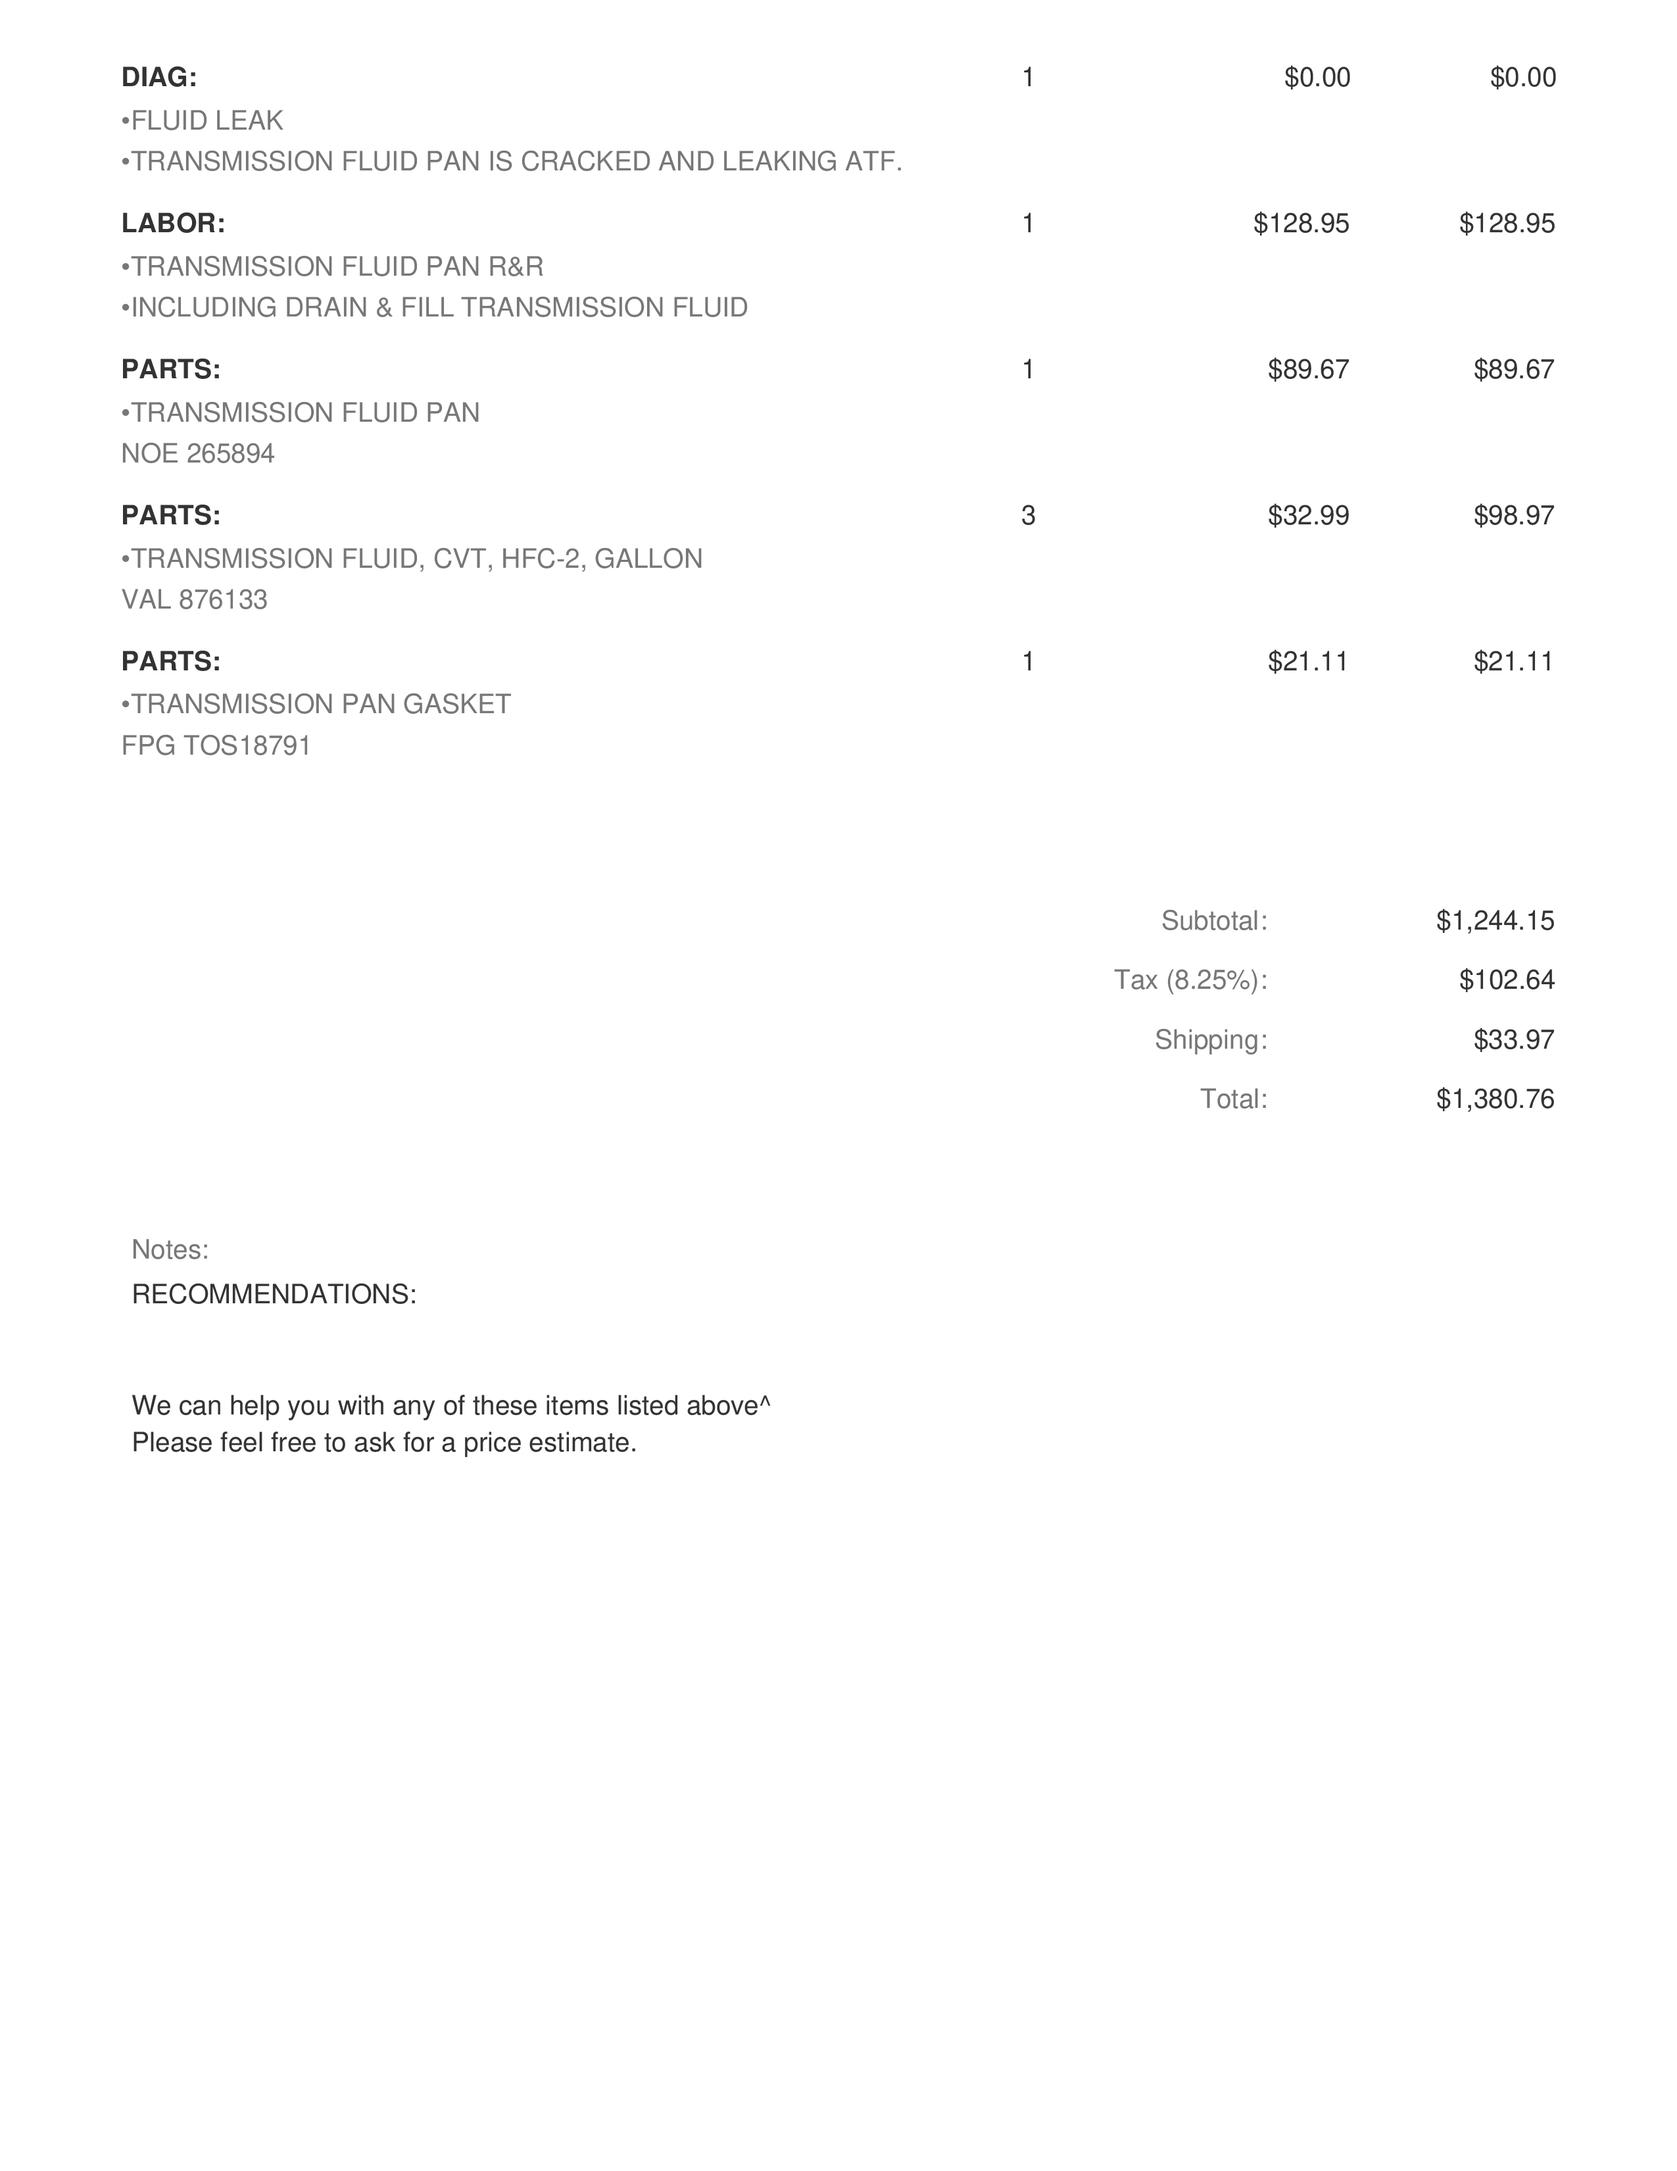
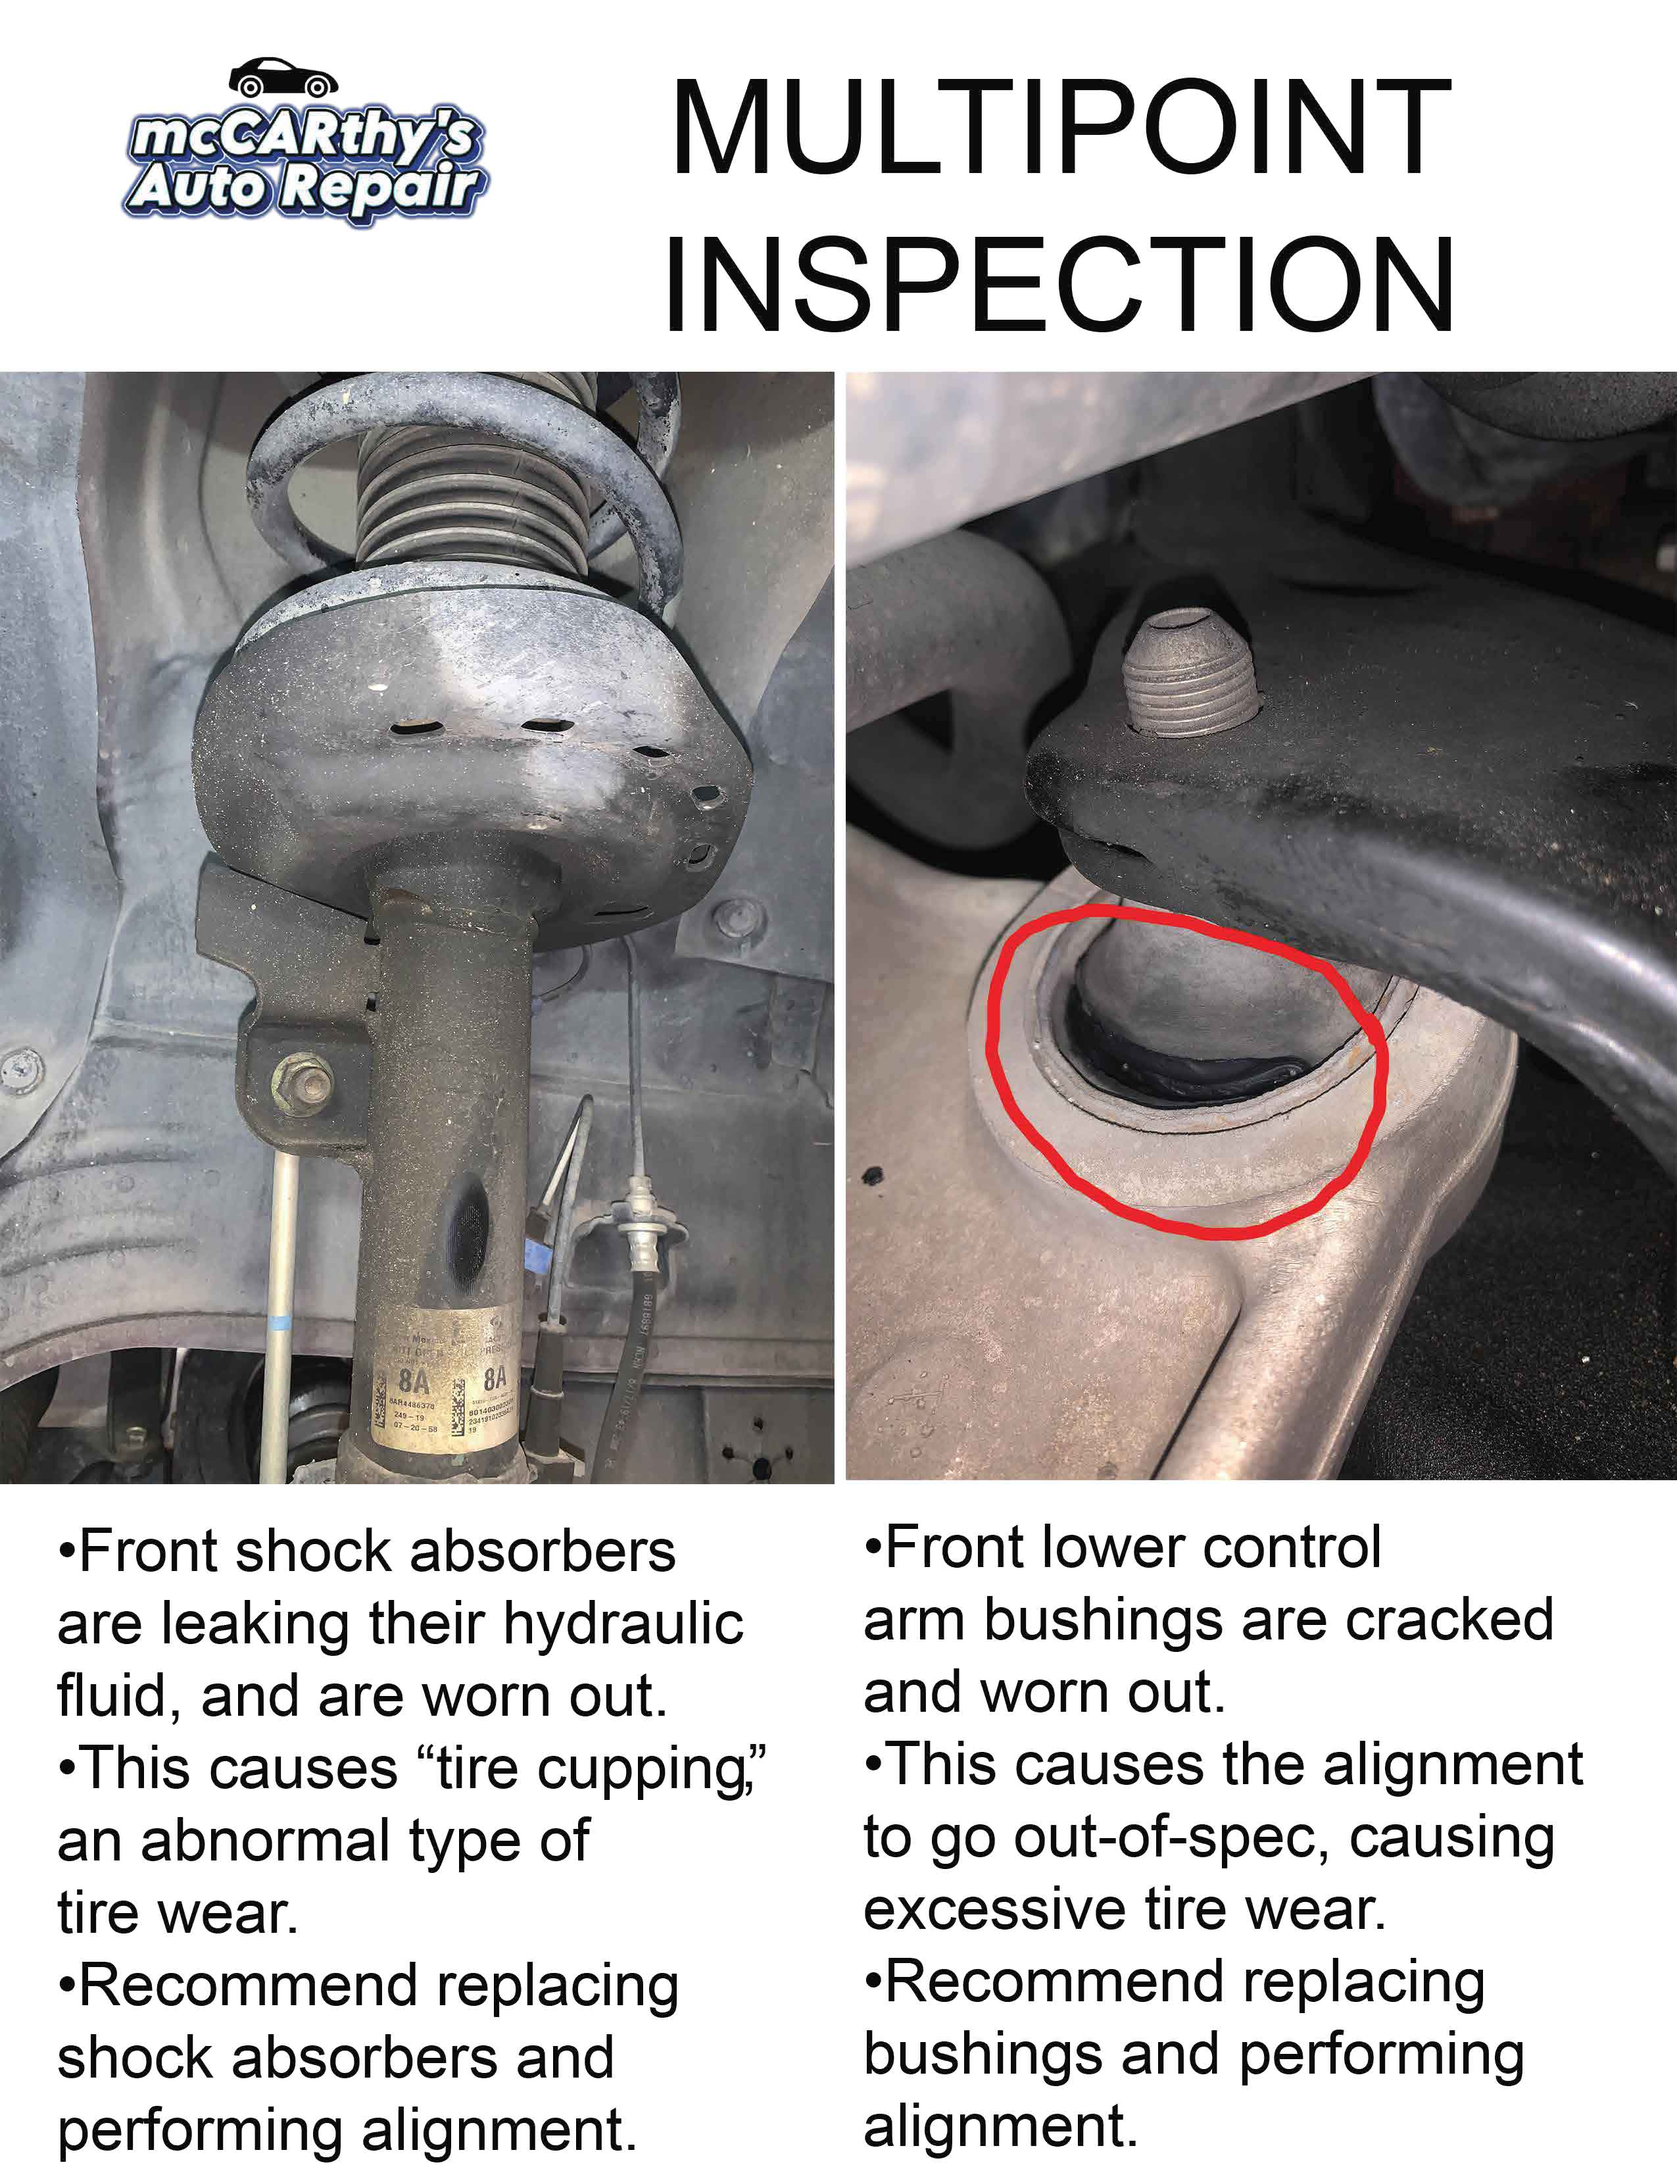
proof update redo

diff --git a/proof.html b/proof.html
@@ -119,6 +119,31 @@
 
       <div class="graphic-container">
         <div class="graphic-text">
+          Timing belt service
+        </div>
+        <div class="small-graphic-text">
+          This customer needed a new timing belt. We include the tensioner, idler, and water pump as well. Furthermore, it is important to replace the front cam and crankshaft seals in order to prevent some very common leaks in the near future. </br>
+          During the multipoint inspection, we found a couple of minor problems such as contaminated brake fluid, leaking shock absorbers, and some worn-out lower control arm bushings.
+        </div>
+        <a href="images/graphics/proof/2.jpg" target="_blank">
+          <img src="images/graphics/proof/2.jpg" class='slides' alt="" style="">
+        </a>
+        <a href="images/graphics/proof/2.1.jpg" target="_blank">
+          <img src="images/graphics/proof/2.1.jpg" class='slides' alt="" style="">
+        </a>
+        <a href="images/graphics/proof/2.2.jpg" target="_blank">
+          <img src="images/graphics/proof/2.2.jpg" class='slides' alt="" style="">
+        </a>
+        <a href="images/graphics/proof/2.3.jpg" target="_blank">
+          <img src="images/graphics/proof/2.3.jpg" class='slides' alt="" style="">
+        </a>
+        <a href="images/graphics/proof/2.4.jpg" target="_blank">
+          <img src="images/graphics/proof/2.4.jpg" class='slides' alt="" style="">
+        </a>
+        <div class="border"></div>
+
+      <div class="graphic-container">
+        <div class="graphic-text">
           HVAC System Overhaul and Transmission Fluid Leak Repair
         </div>
         <div class="small-graphic-text">
@@ -127,11 +152,11 @@
       </br>
     </br>If you'd like to see the multipoint inspection video that accompanied this repair, please visit: <a href="https://www.youtube.com/watch?v=NAfx7QvWduI" target="_blank" rel="noopener noreferrer">https://www.youtube.com/watch?v=NAfx7QvWduI</a>
         </div>
-        <a href="images/graphics/proof/2.jpg" target="_blank">
-          <img src="images/graphics/proof/2.jpg" class='slides' alt="" style="">
+        <a href="images/graphics/proof/3.jpg" target="_blank">
+          <img src="images/graphics/proof/3.jpg" class='slides' alt="" style="">
         </a>
-        <a href="images/graphics/proof/2.1.jpg" target="_blank">
-          <img src="images/graphics/proof/2.1.jpg" class='slides' alt="" style="">
+        <a href="images/graphics/proof/3.1.jpg" target="_blank">
+          <img src="images/graphics/proof/3.1.jpg" class='slides' alt="" style="">
         </a>
         <div class="border"></div>
 
